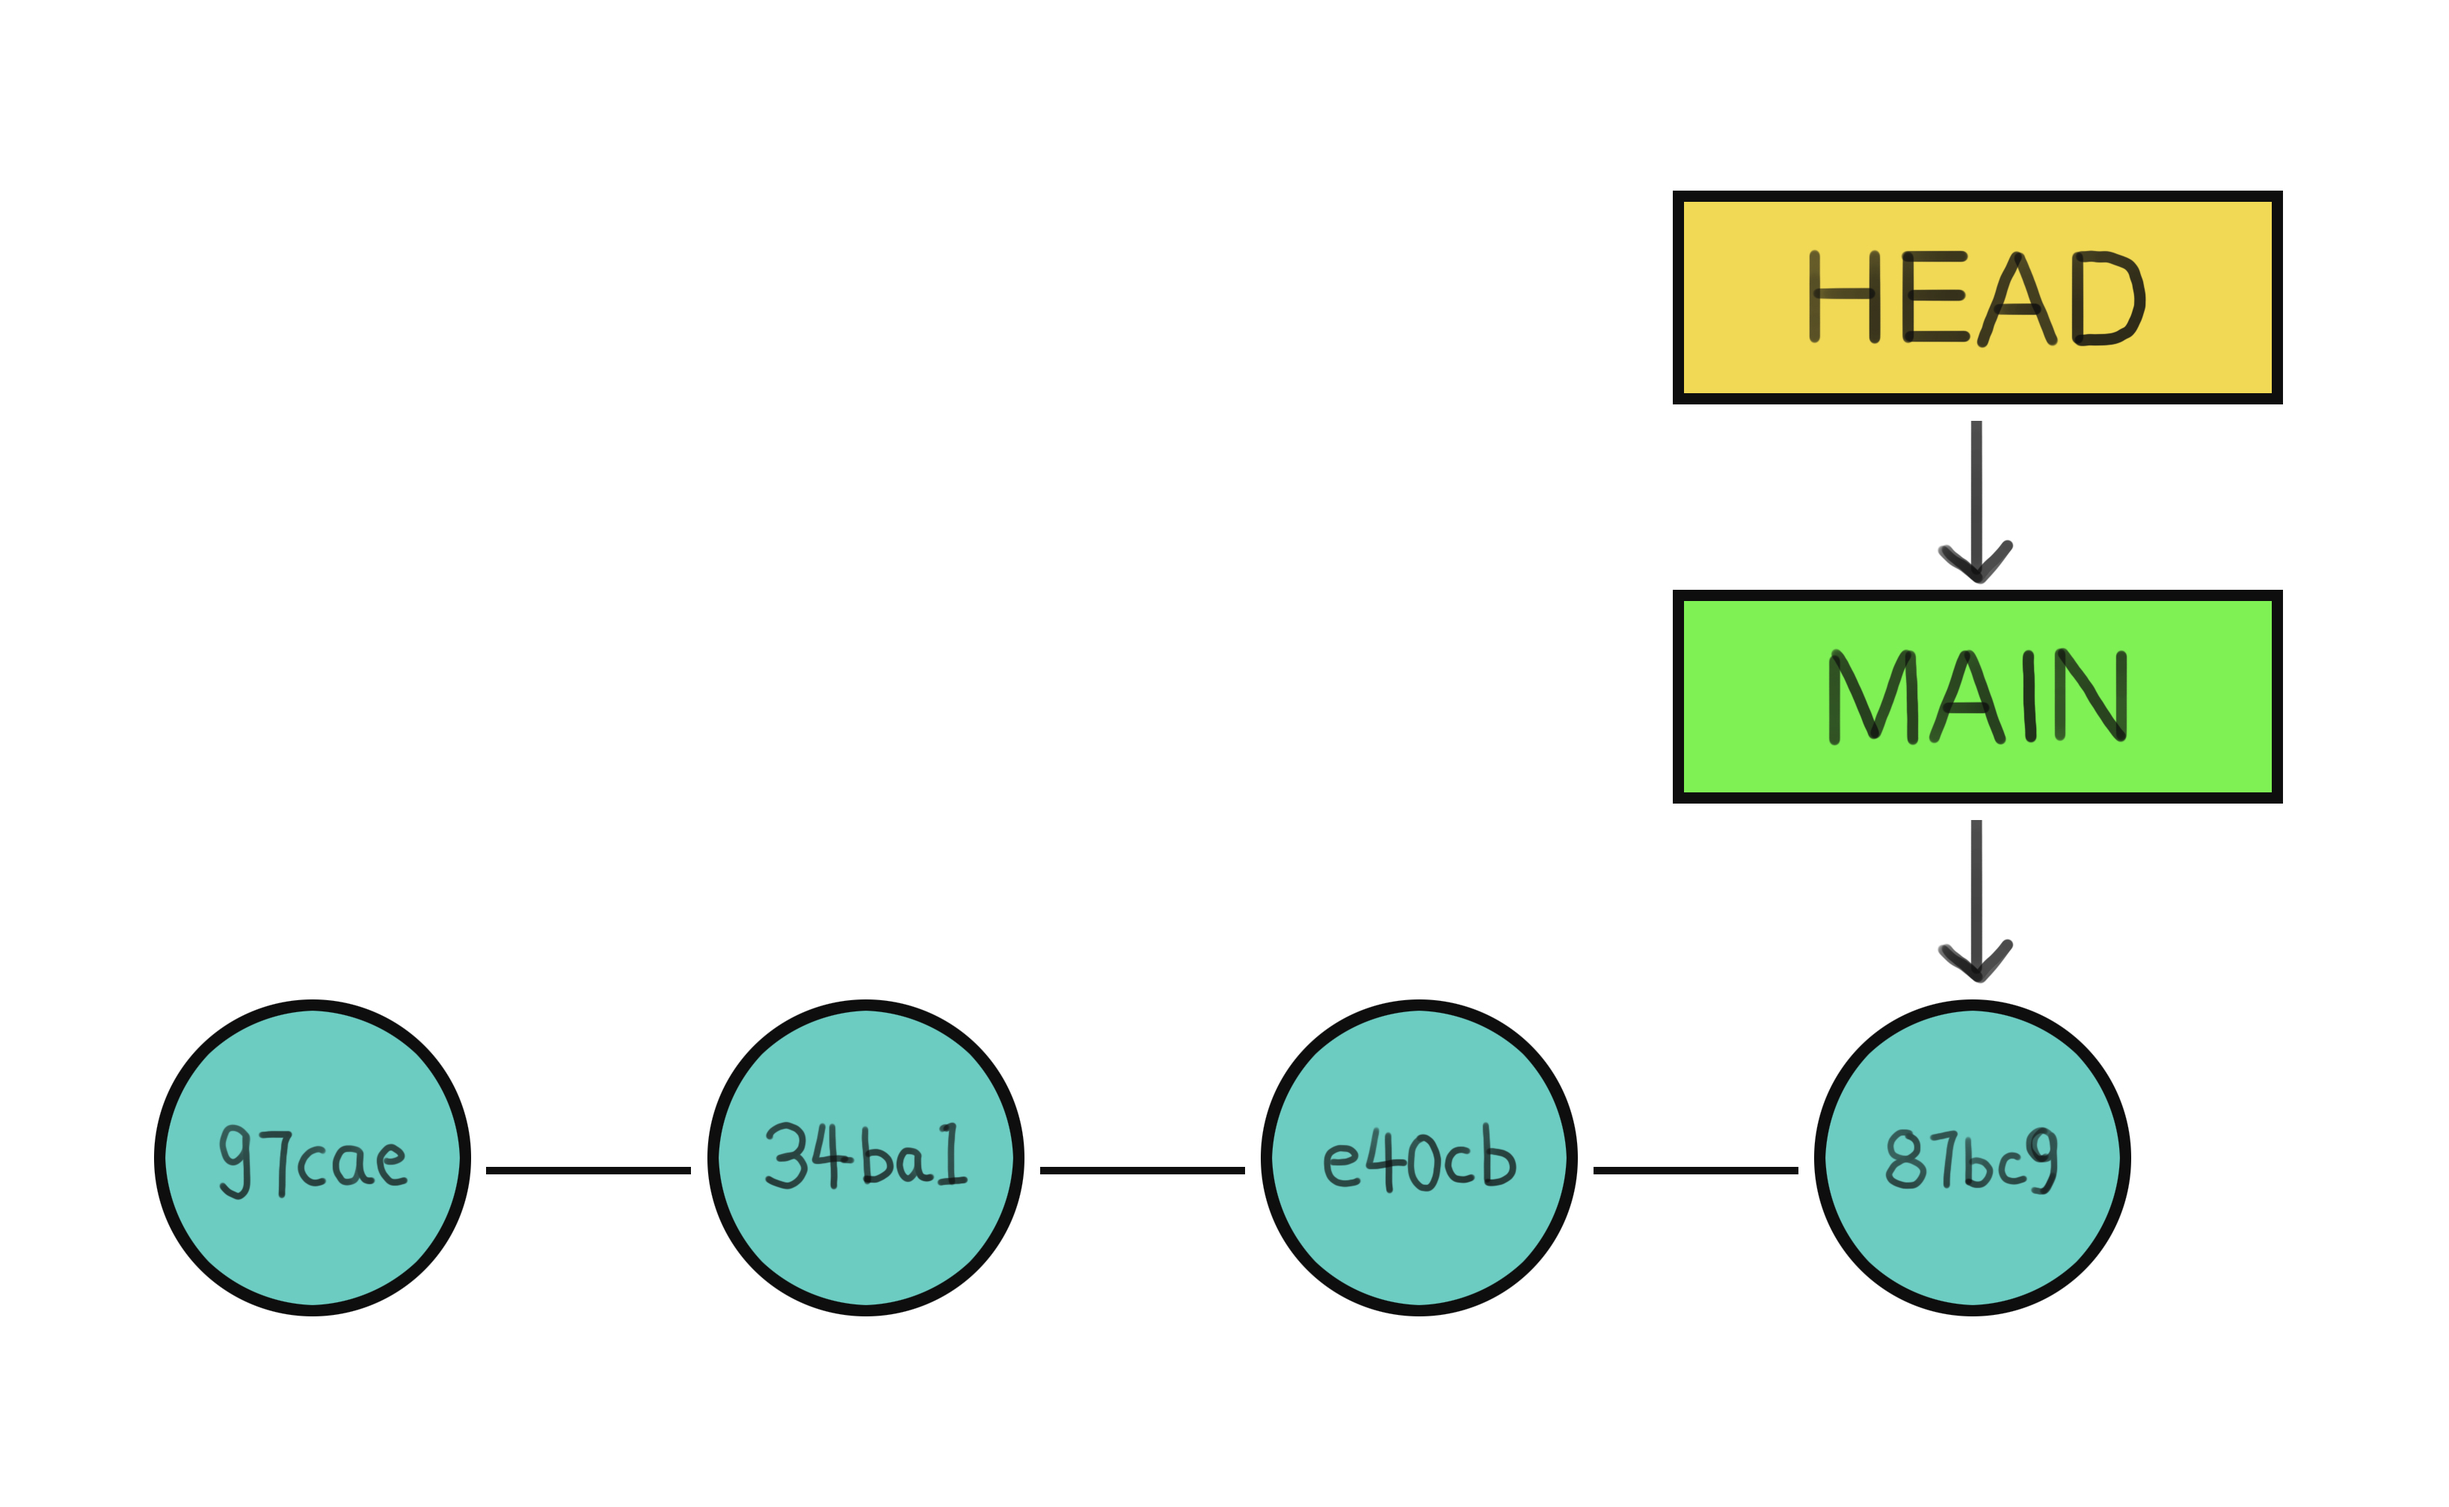
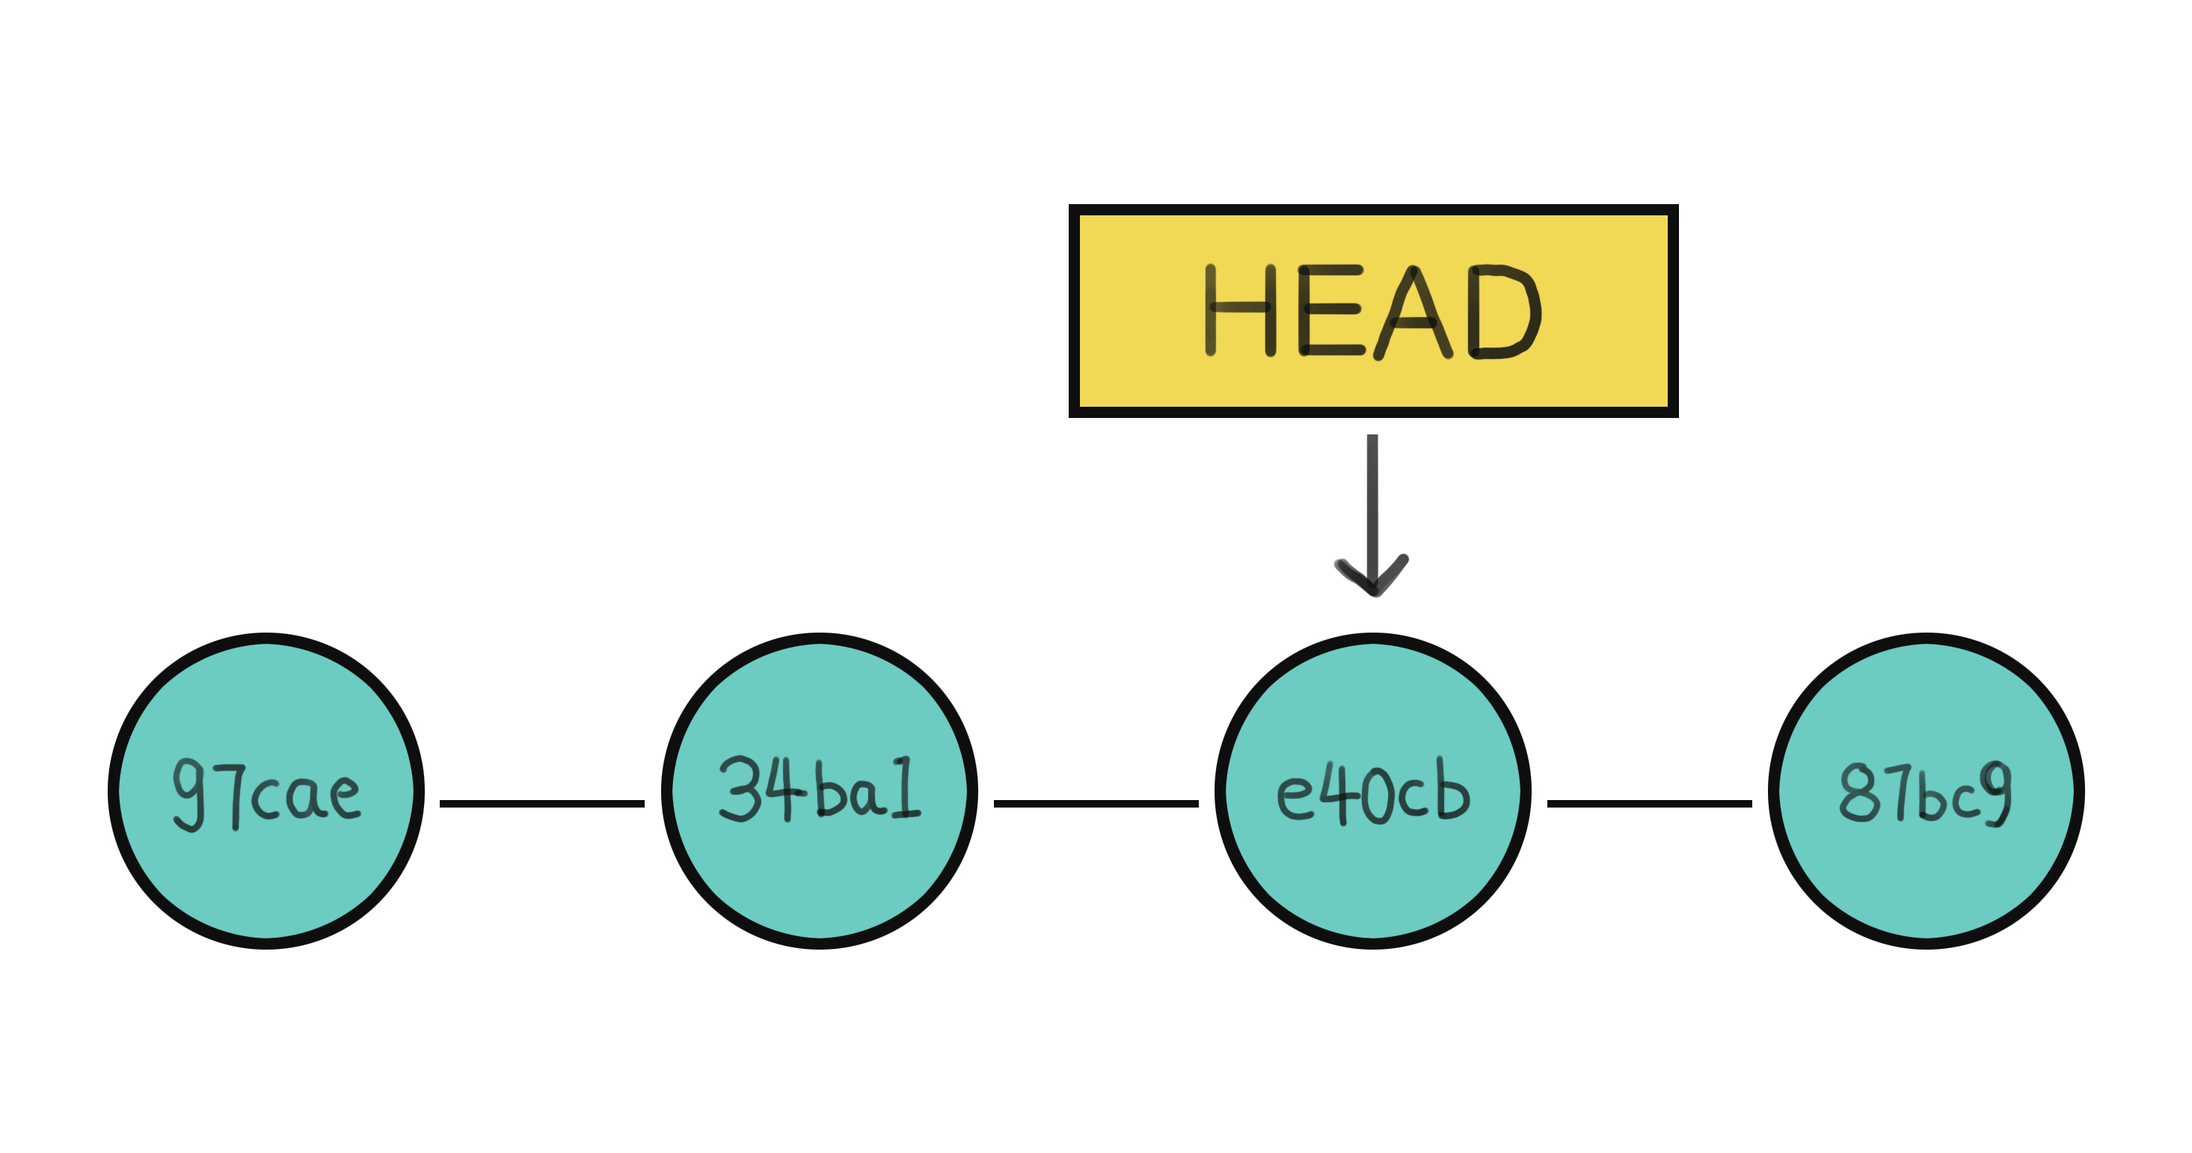
Change Tools>Git illustration explaining HEAD concept

Changed region(s): [[0.031, 0.1245, 0.9625, 0.8716]]

diff --git a/toolset/tools.md b/toolset/tools.md
@@ -306,7 +306,7 @@ Enter the HEAD pointer.
 The HEAD is a pointer that tells you where you are in the repository. It usually points to the latest commit in the branch you're currently working on. If you switch branches (which we will see later) or retract a previous commit, the HEAD will move accordingly, as shown in the illustration below.
 
 ![Committing Changes](./figures/committing-changes.jpg)
-*Four snapshots in a Git repository, each labeled with a unique hash ID. The 'HEAD' pointer indicates the current position in the project's timeline, while 'MAIN' marks the most recent commit.*
+*Four snapshots in a Git repository, each labeled with a unique hash ID. The 'HEAD' pointer indicates the current position in the project's timeline, which happens to be different from the latest commit.*
 
 ### Bringing it all together
 
